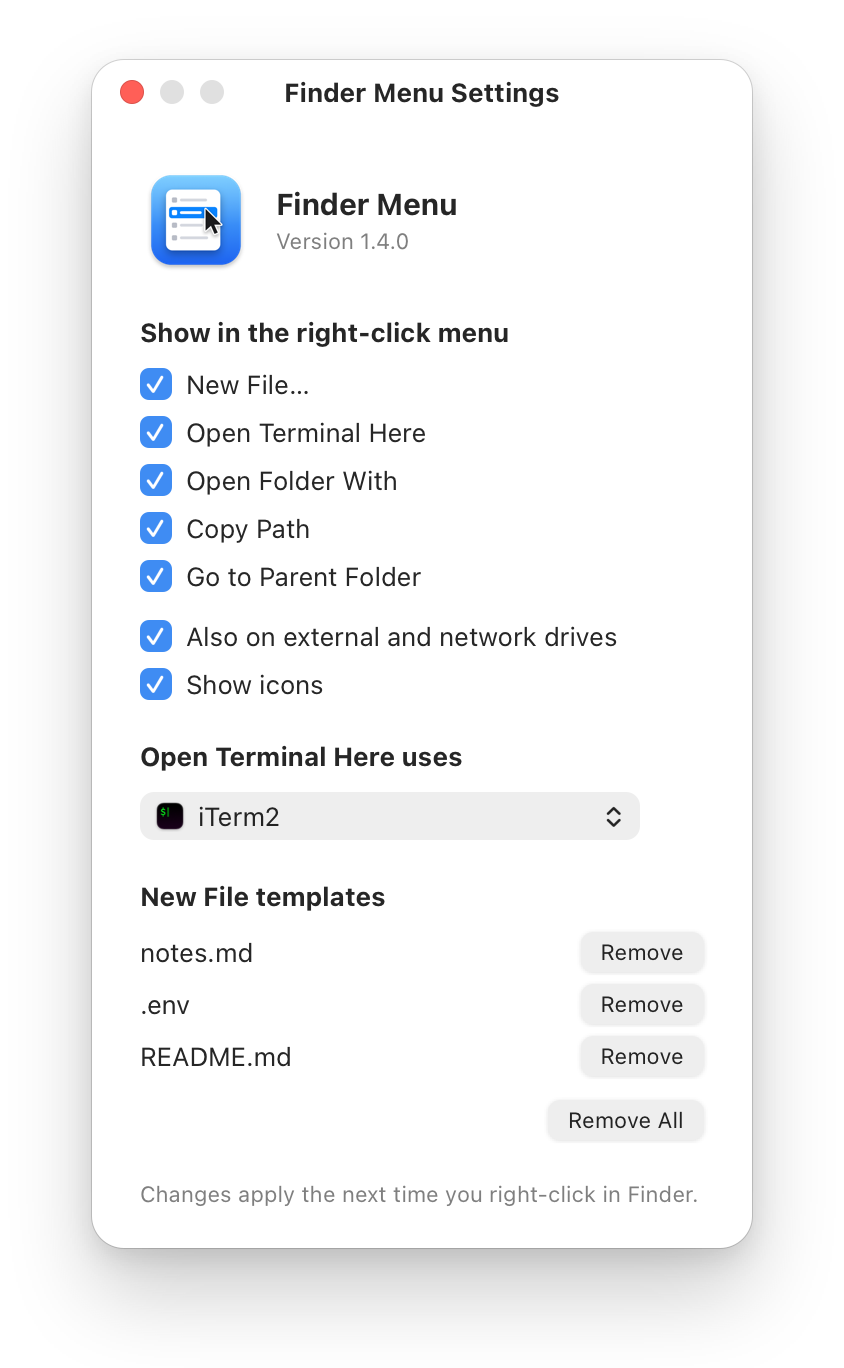
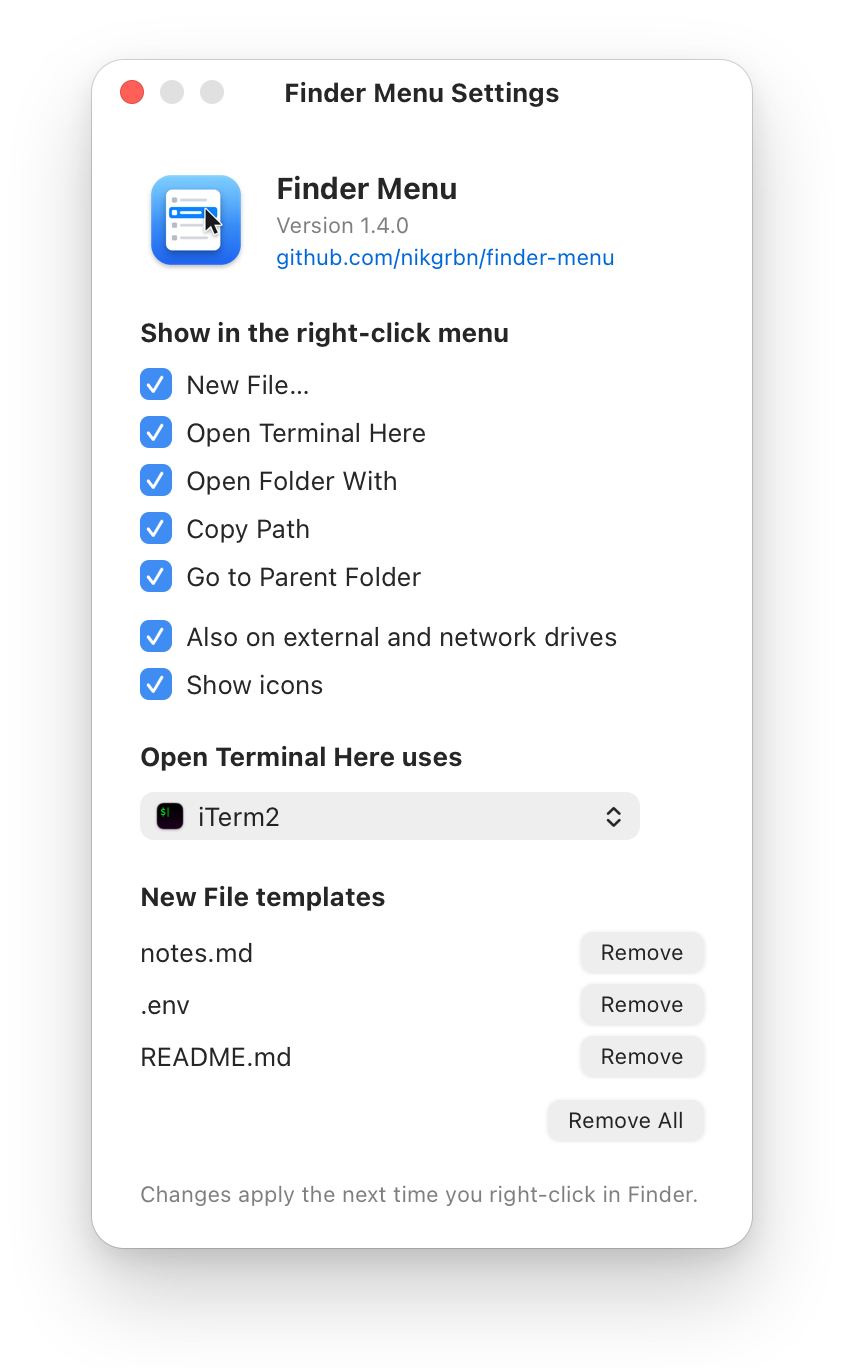
Add About Finder Menu and a link to the GitHub repository (#31)
* Add About Finder Menu and a link to the GitHub repository

The app menu gets About Finder Menu, which opens the standard About panel
with the repository link under the version. The settings window shows the
same link under the version, so the docs, issues and source are one click
away. The README's settings mockup shows the new line.

Fixes #30

* Keep the README's line counts as they were

---------

Changed region(s): [[0.3081, 0.1228, 0.7085, 0.2149]]

diff --git a/Sources/FinderMenu/SettingsWindow.swift b/Sources/FinderMenu/SettingsWindow.swift
@@ -1,6 +1,10 @@
 import Cocoa
 import UniformTypeIdentifiers
 
+// Where to read the docs, report a bug or see the source. Linked from settings and the About panel.
+let repositoryURL = URL(string: "https://github.com/nikgrbn/finder-menu")!
+let repositoryName = "github.com/nikgrbn/finder-menu"
+
 // Shown when Finder Menu.app is opened directly (Spotlight, Finder, `finder-menu settings`).
 // Every change is saved right away and applies on the next right-click.
 final class SettingsWindowController: NSWindowController {
@@ -27,7 +31,8 @@ final class SettingsWindowController: NSWindowController {
         let version = NSTextField(labelWithString: String(format: NSLocalizedString("Version %@", comment: ""), versionNumber))
         version.font = .systemFont(ofSize: NSFont.smallSystemFontSize)
         version.textColor = .secondaryLabelColor
-        let titles = NSStackView(views: [name, version])
+        let link = LinkButton(title: repositoryName, url: repositoryURL)
+        let titles = NSStackView(views: [name, version, link])
         titles.orientation = .vertical
         titles.alignment = .leading
         titles.spacing = 2
@@ -244,5 +249,35 @@ final class SettingsWindowController: NSWindowController {
             return
         }
         chosenTerminal = item.representedObject as? String
+    }
+}
+
+// Text that looks and acts like a web link: link color, a pointing hand, opens in the default browser.
+private final class LinkButton: NSButton {
+    private var url: URL!
+
+    convenience init(title: String, url: URL) {
+        self.init(frame: .zero)
+        self.url = url
+        isBordered = false
+        attributedTitle = NSAttributedString(string: title, attributes: [
+            .foregroundColor: NSColor.linkColor, .font: NSFont.systemFont(ofSize: NSFont.smallSystemFontSize),
+        ])
+        toolTip = url.absoluteString
+        target = self
+        action = #selector(openLink(_:))
+    }
+
+    // Labels line up by their text, 2 points in from their frame. Do the same, so the link lines up with them.
+    override var alignmentRectInsets: NSEdgeInsets {
+        NSEdgeInsets(top: 0, left: 2, bottom: 0, right: 2)
+    }
+
+    override func resetCursorRects() {
+        addCursorRect(bounds, cursor: .pointingHand)
+    }
+
+    @objc private func openLink(_ sender: Any?) {
+        NSWorkspace.shared.open(url)
     }
 }

diff --git a/docs/mockups/mockups.html b/docs/mockups/mockups.html
@@ -21,6 +21,7 @@
     --text: rgba(0, 0, 0, .85);
     --text-2: rgba(0, 0, 0, .5);
     --text-3: rgba(0, 0, 0, .26);
+    --link: #0068da;
     --window: #fff;
     --edge: rgba(0, 0, 0, .16);
     --rim: transparent;
@@ -42,6 +43,7 @@
     --text: rgba(255, 255, 255, .88);
     --text-2: rgba(255, 255, 255, .55);
     --text-3: rgba(255, 255, 255, .28);
+    --link: #419cff;
     --window: #202020;
     --edge: rgba(0, 0, 0, .75);
     --rim: rgba(255, 255, 255, .14);
@@ -147,6 +149,7 @@
   .header img { width: 56px; height: 56px; }
   .header .name { font-size: 15px; line-height: 19px; font-weight: 700; }
   .header .version { margin-top: 2px; font-size: 11px; line-height: 14px; color: var(--text-2); }
+  .header .link { margin-top: 2px; font-size: 11px; line-height: 14px; color: var(--link); }
   .section { font-weight: 700; }
   .checkbox { display: flex; align-items: center; gap: 7px; height: 16px; }
   .checkbox .box {
@@ -363,7 +366,8 @@ const scenes = {
         h('div', { cls: 'titlebar' }, lights('closable-only'), 'Finder Menu Settings'),
         h('div', { cls: 'content' },
           h('div', { cls: 'header' }, h('img', { src: '../icon.png', alt: '' }),
-            h('div', null, h('div', { cls: 'name' }, 'Finder Menu'), h('div', { cls: 'version' }, 'Version 1.4.0'))),
+            h('div', null, h('div', { cls: 'name' }, 'Finder Menu'), h('div', { cls: 'version' }, 'Version 1.4.0'),
+              h('div', { cls: 'link' }, 'github.com/nikgrbn/finder-menu'))),
           gap(20), h('div', { cls: 'section' }, 'Show in the right-click menu'), gap(10),
           ['New File…', 'Open Terminal Here', 'Open Folder With', 'Copy Path', 'Go to Parent Folder']
             .flatMap((title, i) => [i ? gap(8) : null, checkbox(title)]),

diff --git a/Sources/FinderMenu/main.swift b/Sources/FinderMenu/main.swift
@@ -81,6 +81,8 @@ final class AppDelegate: NSObject, NSApplicationDelegate {
 
     private func makeMainMenu() -> NSMenu {
         let appMenu = NSMenu()
+        appMenu.addItem(withTitle: NSLocalizedString("About Finder Menu", comment: ""), action: #selector(showAbout(_:)), keyEquivalent: "").target = self
+        appMenu.addItem(.separator())
         appMenu.addItem(withTitle: NSLocalizedString("Quit Finder Menu", comment: ""), action: #selector(NSApplication.terminate(_:)), keyEquivalent: "q")
         let editMenu = NSMenu(title: NSLocalizedString("Edit", comment: ""))
         editMenu.addItem(withTitle: NSLocalizedString("Undo", comment: ""), action: Selector(("undo:")), keyEquivalent: "z")
@@ -99,6 +101,16 @@ final class AppDelegate: NSObject, NSApplicationDelegate {
             main.addItem(item)
         }
         return main
+    }
+
+    // The standard About panel, with a link to the project under the version.
+    @objc private func showAbout(_ sender: Any?) {
+        let centered = NSMutableParagraphStyle()
+        centered.alignment = .center
+        let link = NSAttributedString(string: repositoryName, attributes: [
+            .link: repositoryURL, .font: NSFont.systemFont(ofSize: NSFont.smallSystemFontSize), .paragraphStyle: centered,
+        ])
+        NSApp.orderFrontStandardAboutPanel(options: [.credits: link])
     }
 
     // A menu action is done. Quit, unless the settings window is open.

diff --git a/README.md b/README.md
@@ -126,10 +126,12 @@ Open **Finder Menu** from Spotlight or your Applications folder, or run `finder-
 - pick the terminal for **Open Terminal Here**. Automatic uses the first one installed, in this order: iTerm2, Ghostty, Warp, WezTerm, kitty, Alacritty, Terminal. **Other App…** lets you pick any app.
 - remove [New File templates](#new-file-templates)
 
+It also shows the version you have and links to this page. **About Finder Menu** in the app menu shows the same.
+
 <p align="center">
   <picture>
     <source media="(prefers-color-scheme: dark)" srcset="docs/images/settings-dark.png">
-    <img src="docs/images/settings-light.png" width="380" alt="Finder Menu settings window: a checkbox for each right-click menu item, one for external and network drives and one for icons, a picker for the terminal Open Terminal Here uses, and the saved New File templates, each with a Remove button">
+    <img src="docs/images/settings-light.png" width="380" alt="Finder Menu settings window: the app's version and a link to its GitHub repository, a checkbox for each right-click menu item, one for external and network drives and one for icons, a picker for the terminal Open Terminal Here uses, and the saved New File templates, each with a Remove button">
   </picture>
 </p>
 
